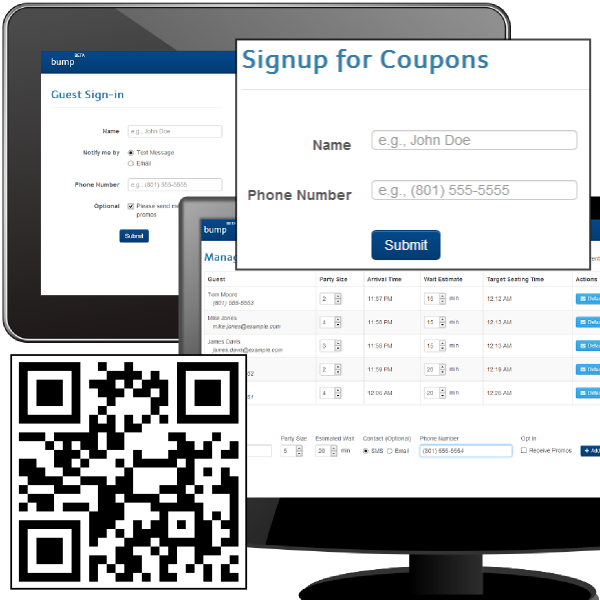
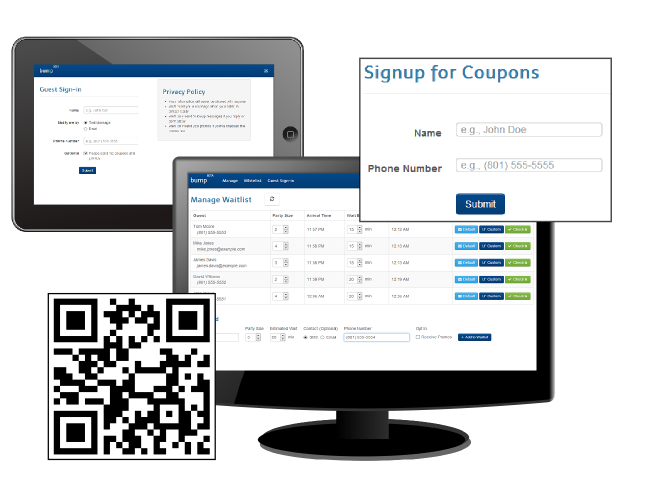
Small Visual/Text Changes to Home

diff --git a/src/templates/home.html b/src/templates/home.html
@@ -31,7 +31,7 @@
   </div>
 </div>
 <br>
-<h1 style="text-align:center;color:#222222;">Bump SMS Marketing Platform</h1>
+<h1 style="text-align:center;color:#222222;">Reach Your Customers with Bump SMS Marketing Platform</h1>
 <hr><br><br>
 <div class="row">
 	<div class="span1">
@@ -61,7 +61,7 @@
 <div class="row">
 	<div class="span1">
 	</div>
-    <div class="span5">
+    <div class="span4">
         <h3>Collect Phone Numbers Effortlessly</h3>
         <p>
             Bump offers more methods to capture customer phone numbers than any competitor, all 
@@ -77,7 +77,7 @@
     </div>
     <div class="span1">
     </div>
-    <div class="span4">
+    <div class="span5">
         <img src="{{ url_for('static', filename='img/signup-methods.png') }}">
     </div>
 	<div class="span1">
